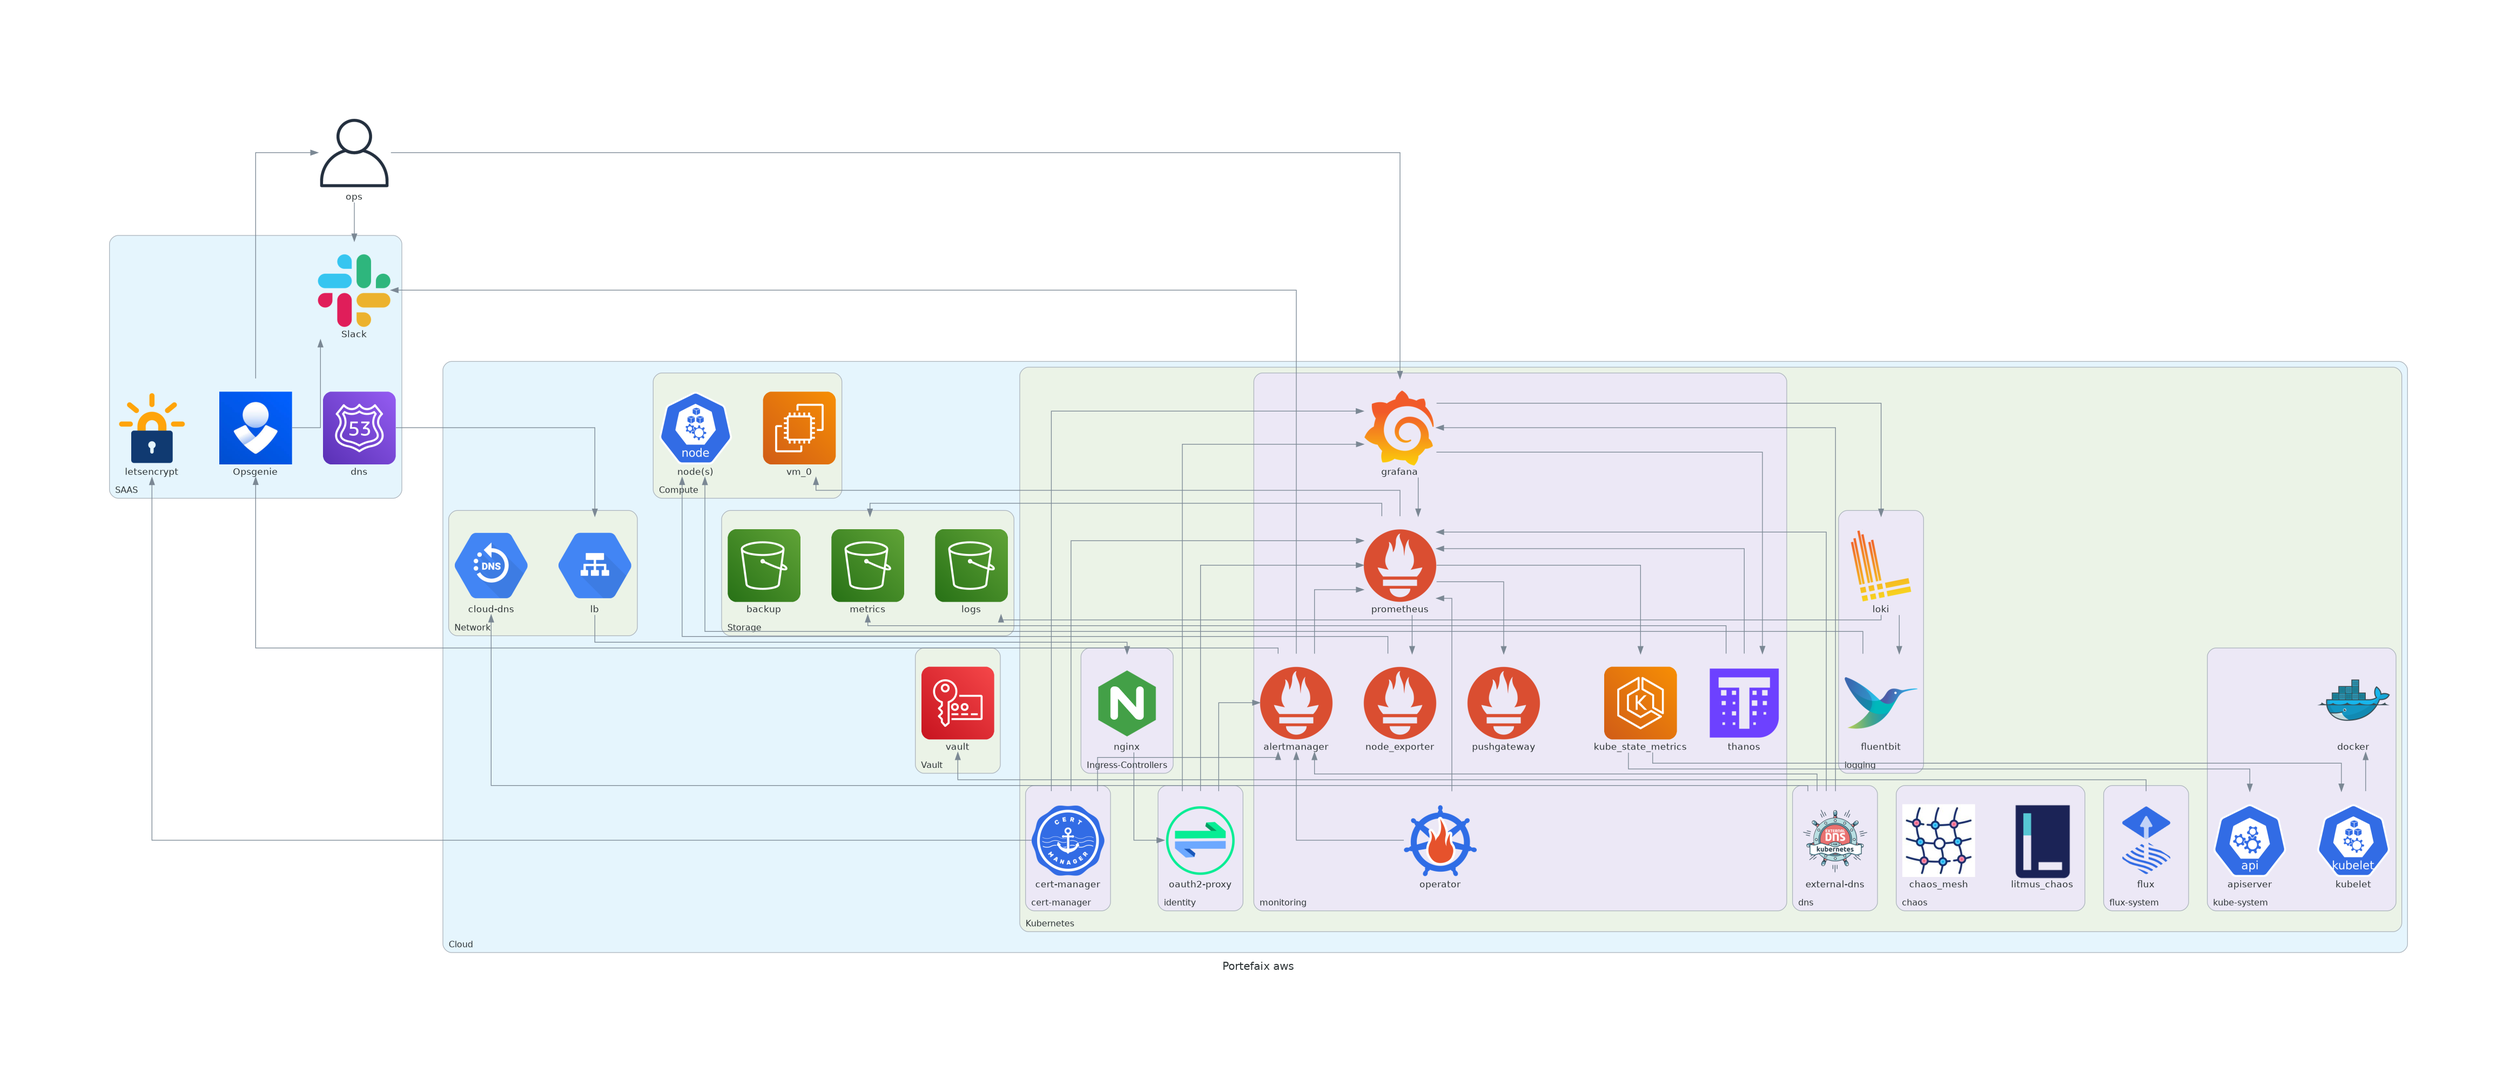
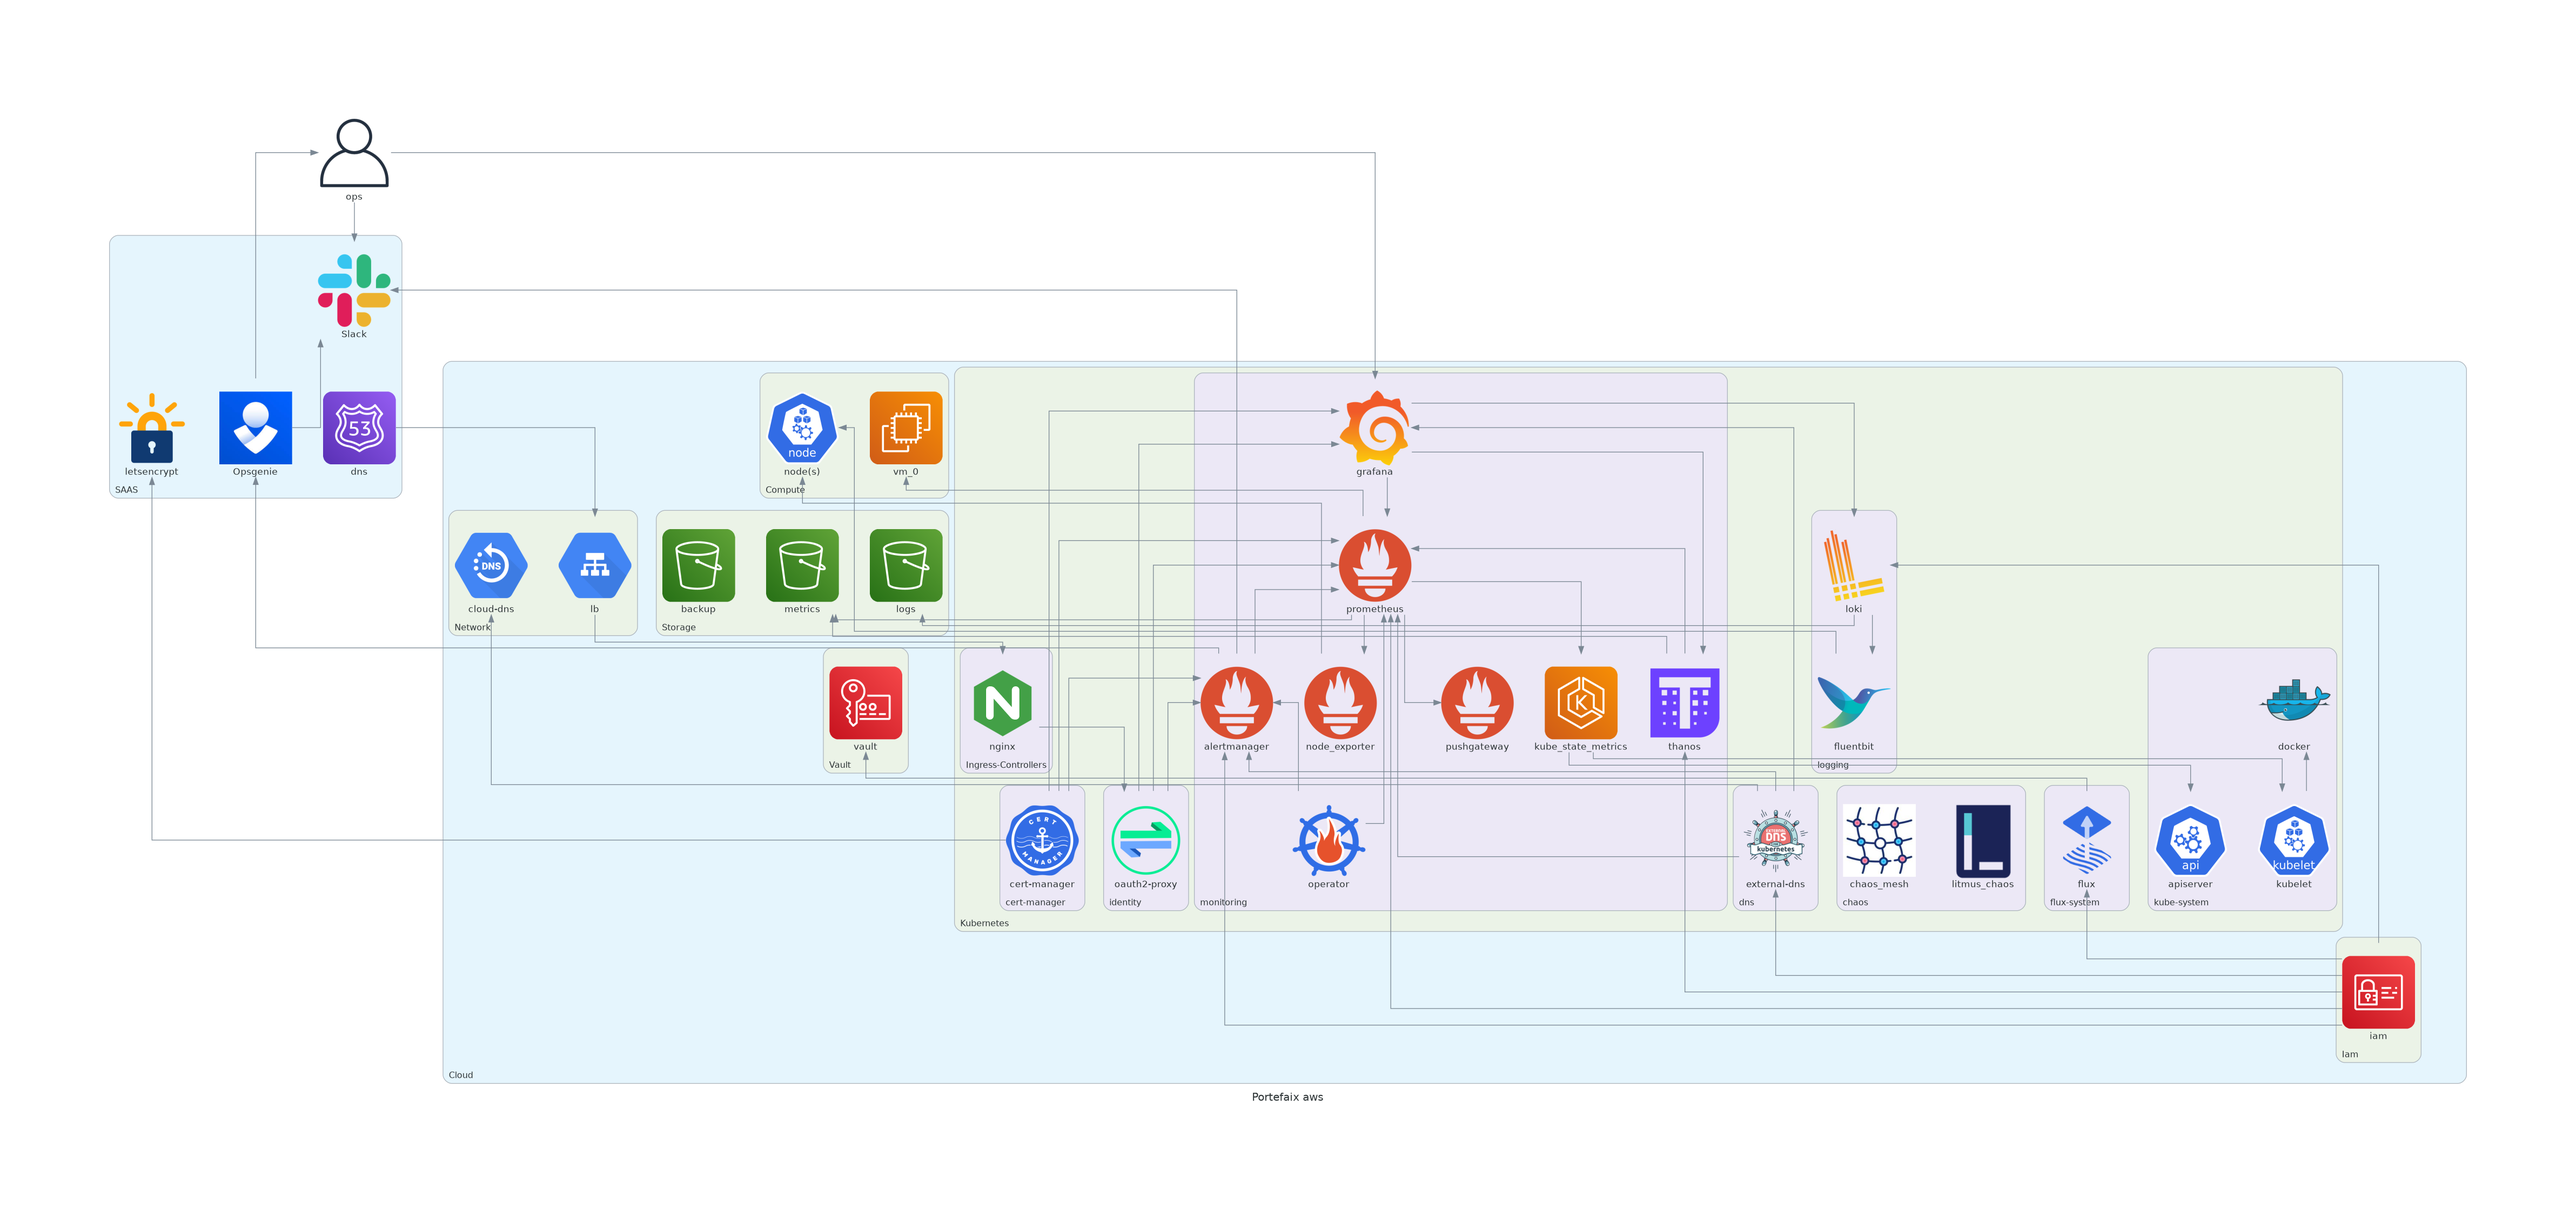
Update: documentation

Changed region(s): [[0.0311, 0.093, 0.9646, 0.899], [0.8712, 0.558, 0.9024, 0.62], [0.4045, 0.403, 0.4356, 0.465]]

diff --git a/diagrams/portefaix.py b/diagrams/portefaix.py
@@ -81,6 +81,9 @@ def architecture(cloud_provider, output, direction):
             with diagrams.Cluster("Vault"):
                 vault = cloud.vault(cloud_provider, "vault")
 
+            with diagrams.Cluster("Iam"):
+                iam = cloud.iam(cloud_provider, "iam")
+
             with diagrams.Cluster("Network"):
                 lb = network.LoadBalancing("lb")
                 cloud_dns = network.DNS("cloud-dns")
@@ -100,6 +103,7 @@ def architecture(cloud_provider, output, direction):
                 with diagrams.Cluster("flux-system"):
                     flux = gitops.Flux("flux")
                     flux >> vault
+                    # flux >> iam
 
                 with diagrams.Cluster("Ingress-Controllers"):
                     ingress = network_onprem.Nginx("nginx")
@@ -119,8 +123,10 @@ def architecture(cloud_provider, output, direction):
                     prometheus_operator >> [prometheus, alertmanager]
 
                     prometheus << grafana
+                    # prometheus >> iam
 
                     alertmanager >> [slack, opsgenie]
+                    # alertmanager >> iam
 
                     [apiserver, kubelet] << kube_state_metrics
 
@@ -132,6 +138,7 @@ def architecture(cloud_provider, output, direction):
 
                     thanos >> prometheus
                     [thanos, prometheus] >> bucket_metrics
+                    # thanos >> iam
 
                     thanos << grafana
 
@@ -142,8 +149,8 @@ def architecture(cloud_provider, output, direction):
                     fluentbit >> nodes
                     fluentbit << loki
                     bucket_logs << loki
-
                     loki << grafana
+                    # loki >> iam
 
                 with diagrams.Cluster("chaos"):
                     litmuschaos, chaosmesh = k8s.setup_chaos()
@@ -152,6 +159,7 @@ def architecture(cloud_provider, output, direction):
                     external_dns = k8s.setup_dns()
                     external_dns >> cloud_dns
                     external_dns >> [grafana, prometheus, alertmanager]
+                    # external_dns >> iam
 
                 with diagrams.Cluster("identity"):
                     oauth2_proxy = k8s.setup_identity()
@@ -170,6 +178,8 @@ def architecture(cloud_provider, output, direction):
 
         opsgenie >> [slack, ops]
         [grafana, slack] << ops
+
+        iam >> [flux, prometheus, alertmanager, thanos, loki, external_dns]
 
 
 

diff --git a/docs/index.md b/docs/index.md
@@ -6,13 +6,13 @@
 
 A Kubernetes experience ...
 
-| Cloud Provider | Terraform | Kubernetes | Tfscan | Inspec |
+| Cloud Provider | Terraform | Sops | Tfscan | Inspec |
 |-----|:-----:|:-----:|:-----:|:-----:|
-| Google Cloud Platform | <span class="check-bullet">:material-check:</span> | <span class="check-bullet">:material-check:</span> | <span class="check-bullet">:material-check:</span> | <span class="check-bullet">:material-check:</span> |
-| Amazon AWS | <span class="check-bullet">:material-check:</span> | <span class="check-bullet">:material-check:</span> | <span class="check-bullet">:material-check:</span> | <span class="check-bullet">:material-check:</span> |
-| Microsoft Azure | <span class="check-bullet">:material-check:</span> | <span class="check-bullet">:material-check:</span> | <span class="check-bullet">:material-check:</span> | <span class="check-bullet">:material-check:</span> |
-| Scaleway | <span class="check-bullet">:material-check:</span> | <span class="check-bullet">:material-check:</span> | <span class="close-bullet">:material-close:</span> | <span class="close-bullet">:material-close:</span> |
-| Digital Ocean | <span class="check-bullet">:material-check:</span> | <span class="check-bullet">:material-check:</span> | <span class="close-bullet">:material-close:</span> | <span class="close-bullet">:material-close:</span> | <span class="close-bullet">:material-close:</span> |
+| Google Cloud Platform | <span class="check-bullet">:material-check:</span> | <span class="check-bullet">:material-check:</span> [GCP KMS](https://cloud.google.com/security-key-management) | <span class="check-bullet">:material-check:</span> | <span class="check-bullet">:material-check:</span> |
+| Amazon AWS | <span class="check-bullet">:material-check:</span> | <span class="check-bullet">:material-check:</span> [AWS KMS](https://aws.amazon.com/kms/) | <span class="check-bullet">:material-check:</span> | <span class="check-bullet">:material-check:</span> |
+| Microsoft Azure | <span class="check-bullet">:material-check:</span> | <span class="check-bullet">:material-check:</span> [Azure KeyVault](https://azure.microsoft.com/en-us/services/key-vault/) | <span class="check-bullet">:material-check:</span> | <span class="check-bullet">:material-check:</span> |
+| Scaleway | <span class="check-bullet">:material-check:</span> | <span class="check-bullet">:material-check:</span> PGP | <span class="close-bullet">:material-close:</span> | <span class="close-bullet">:material-close:</span> |
+| Digital Ocean | <span class="check-bullet">:material-check:</span> | <span class="check-bullet">:material-check:</span> PGP | <span class="close-bullet">:material-close:</span> | <span class="close-bullet">:material-close:</span> |
 
 ## Architecture
 

diff --git a/docs/user/gitops.md b/docs/user/gitops.md
@@ -1,0 +1,76 @@
+# Gitops
+
+[Gitops](https://www.weave.works/technologies/gitops/) model used is [Flux v2](https://toolkit.fluxcd.io/)
+
+![overview](../img/gitops-toolkit.png)
+
+## Organization
+
+Manifests files :
+
+* `kubernetes/base` directory contains manifests for all components
+* `kubernetes/overlays/**` directory contains [Kustomize](https://kustomize.io/) overlays
+
+Flux components are deployed for each clusster on `clusters/<CLOUD>/<ENV>/` :
+
+* `clusters/<CLOUD>/<ENV>/flux-system` : Flux core components
+* `clusters/<CLOUD>/<ENV>/*.yaml` : [Flux Kustomization](https://toolkit.fluxcd.io/components/kustomize/kustomization/) files for components
+
+## Secrets
+
+[Sops](https://github.com/mozilla/sops) is used to manage secrets.
+
+### Store
+
+Put your sensitive data into the directory `.secrets` or `.secrets/<CLOUD_PROVIDER>`
+
+### Kubernetes secret
+
+Create a Kubernetes secret file from sensitive file.
+
+Ex: for Thanos configuration :
+
+```yaml
+❯ cat .secrets/aws/object-store.yaml
+type: S3
+config:
+  bucket: xxxxxxxxxxx
+  endpoint: s3.eu-west-3.amazonaws.com
+  region: eu-west-3
+```
+
+```shell
+❯ make kubernetes-secret NAME=thanos-object-storage NAMESPACE=monitoring FILE=.secrets/aws/object-store.yaml > thanos-object-storage.yaml
+```
+
+### Encrypt
+
+Encrypt the file using Sops:
+
+```shell
+❯ make sops-encrypt ENV=staging CLOUD=aws FILE=thanos-object-storage.yaml
+```
+
+You can now safely store this file into Git.
+
+```shell
+❯ mv thanos-object-storage.yaml kubernetes/overlays/staging/monitoring/thanos/
+```
+
+### Decrypt
+
+Check you can decrypt the file:
+
+```shell
+❯ make sops-decrypt FILE=kubernetes/overlays/staging/monitoring/thanos/thanos-object-storage.yaml
+apiVersion: v1
+data:
+    object-store.yaml: xxxxxxxxxxx
+kind: Secret
+metadata:
+    creationTimestamp: null
+    name: thanos-object-storage
+    namespace: monitoring
+```
+
+### Store

diff --git a/docs/user/new.md b/docs/user/new.md
@@ -1,22 +1,4 @@
-# Gitops
-
-[Gitops](https://www.weave.works/technologies/gitops/) model used is [Flux v2](https://toolkit.fluxcd.io/)
-
-![overview](../img/gitops-toolkit.png)
-
-## Organization
-
-Manifests files :
-
-* `kubernetes/base` directory contains manifests for all components
-* `kubernetes/overlays/**` directory contains [Kustomize](https://kustomize.io/) overlays
-
-Flux components are deployed for each clusster on `clusters/<CLOUD>/<ENV>/` :
-
-* `clusters/<CLOUD>/<ENV>/flux-system` : Flux core components
-* `clusters/<CLOUD>/<ENV>/*.yaml` : [Flux Kustomization](https://toolkit.fluxcd.io/components/kustomize/kustomization/) files for components
-
-## Setup a new cluster
+# Setup a new Cluster
 
 Example : on local environment, we target a new cluster `test`.
 
@@ -105,4 +87,3 @@ slack-portefaix True    Initialized
 NAME                    SUSPENDED       READY   MESSAGE
 slack-portefaix-lab     False           True    Initialized
 ```
-
